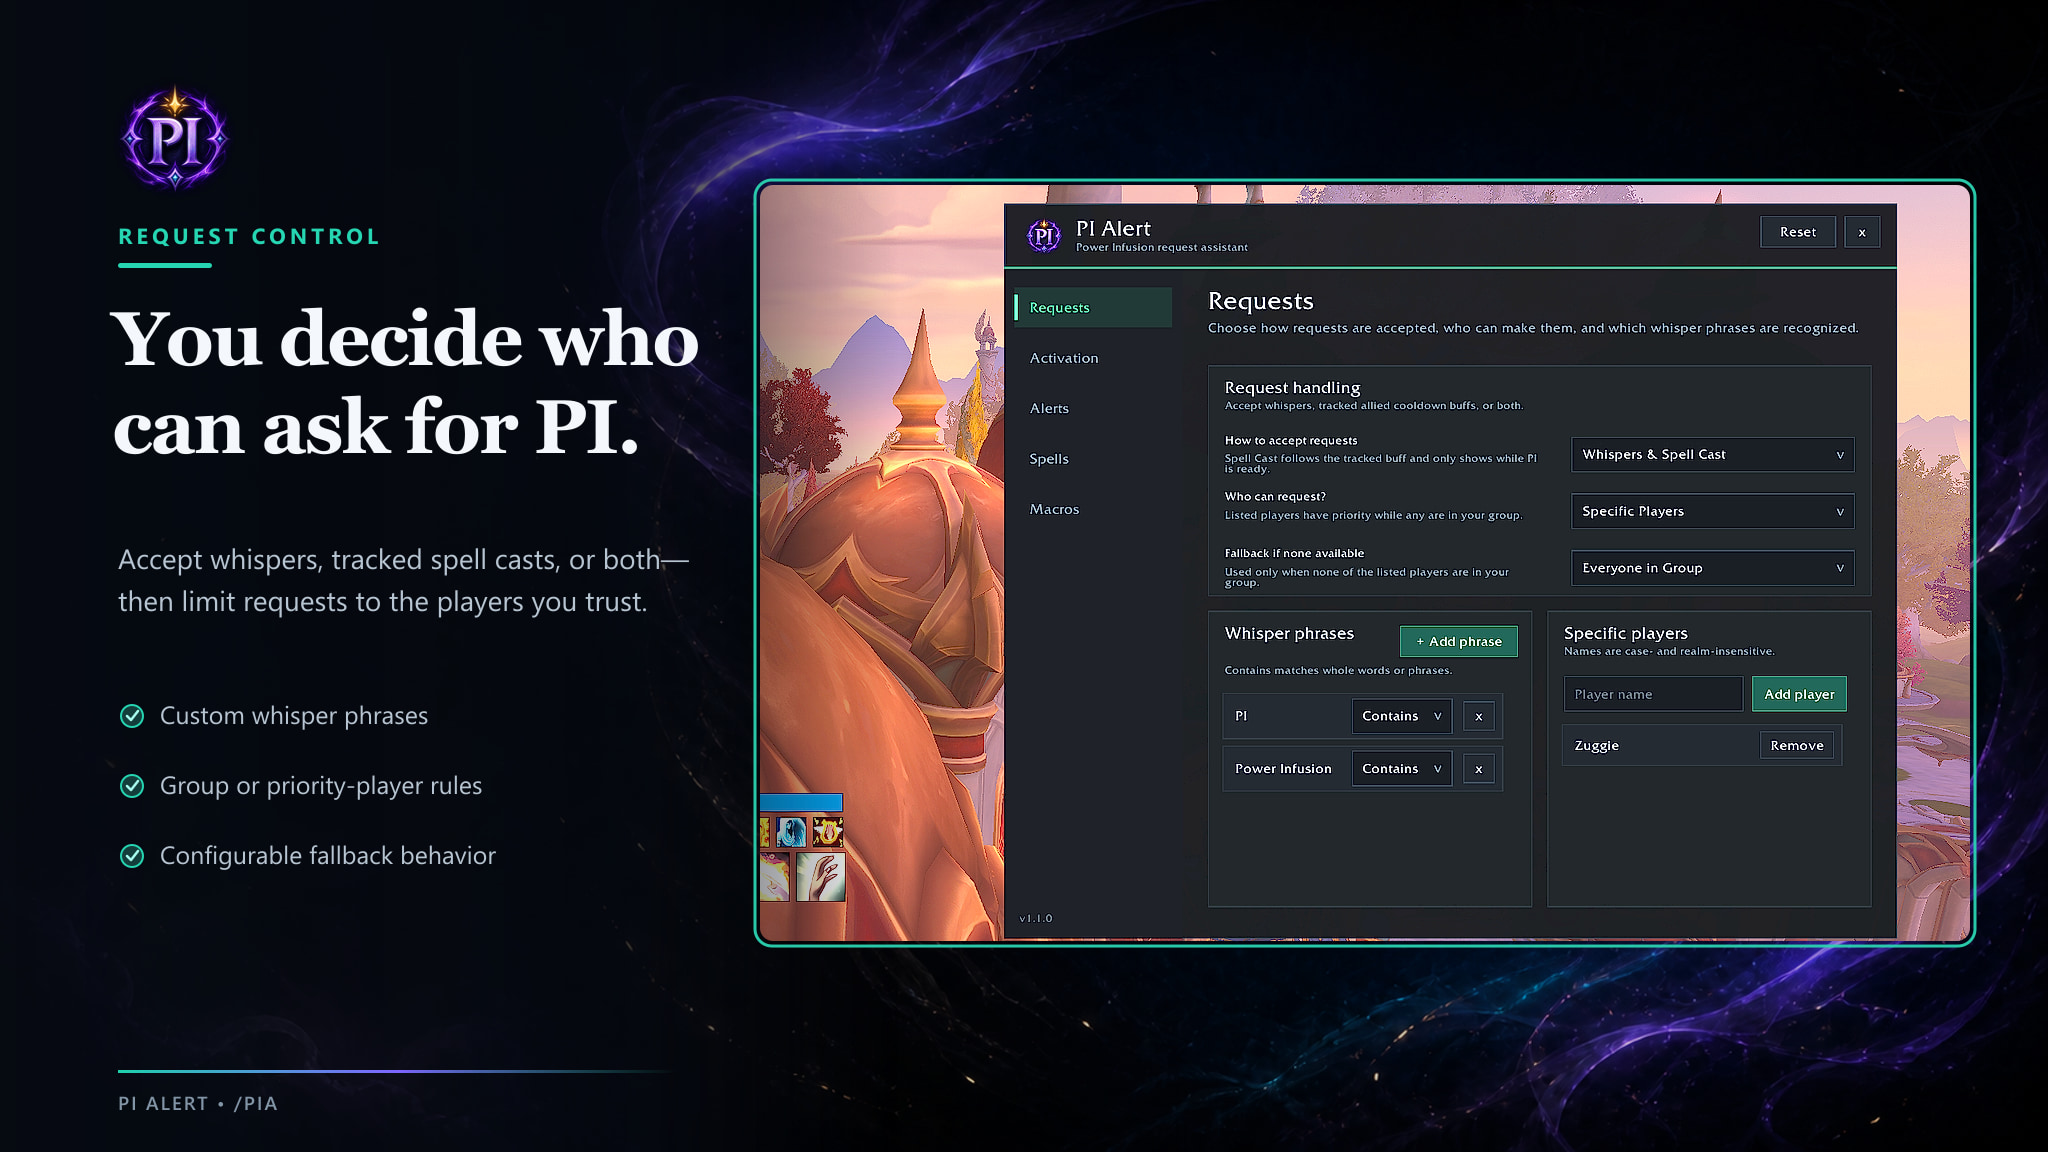
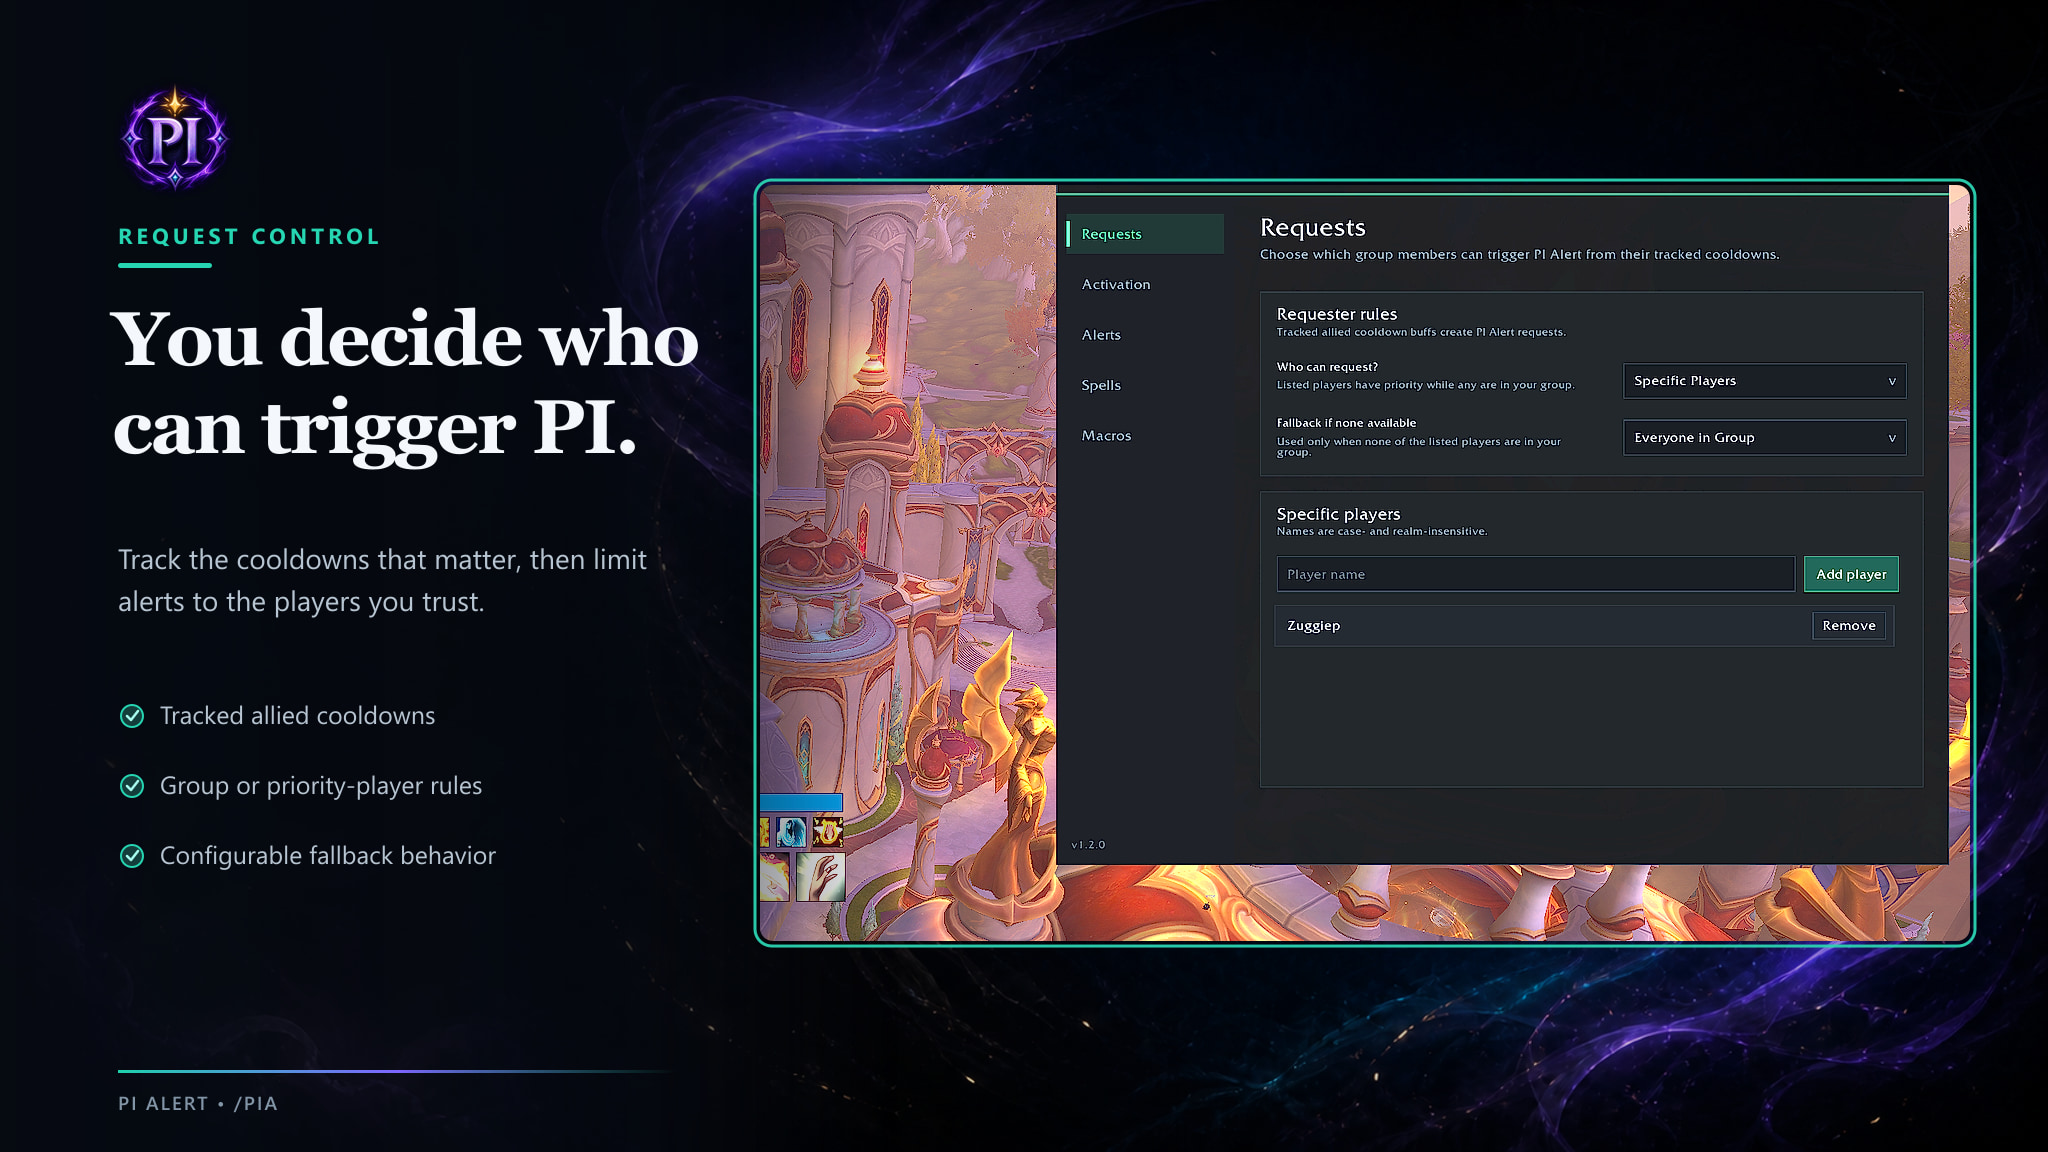
docs: refresh CurseForge gallery screenshots
Render updated Requests, Activation, Alerts, Spells, and Macros panels from the new in-game captures while preserving the established gallery layout.

Update the gallery builder source mapping and contributor guide to use the current screenshots.

Changed region(s): [[0.0625, 0.1562, 0.9688, 0.8438], [0.125, 0.3438, 0.3125, 0.4062], [0.0938, 0.5938, 0.2188, 0.625]]

diff --git a/Branding/CurseForge/build-gallery.js b/Branding/CurseForge/build-gallery.js
@@ -37,7 +37,7 @@ const slides = [
   },
   {
     output: "02-requests.jpg",
-    source: "WoWScrnShot_083126_111855.jpg",
+    source: "WoWScrnShot_083126_124002.jpg",
     crop: { left: 2659, top: 125, width: 1512, height: 945 },
     shot: { x: 760, y: 185, width: 1210, height: 756 },
     eyebrow: "REQUEST CONTROL",
@@ -50,7 +50,7 @@ const slides = [
   },
   {
     output: "03-activation.jpg",
-    source: "WoWScrnShot_083126_111857.jpg",
+    source: "WoWScrnShot_083126_124004.jpg",
     crop: { left: 2659, top: 125, width: 1512, height: 945 },
     shot: { x: 760, y: 185, width: 1210, height: 756 },
     eyebrow: "SMART ACTIVATION",
@@ -63,7 +63,7 @@ const slides = [
   },
   {
     output: "04-alerts.jpg",
-    source: "WoWScrnShot_083126_111859.jpg",
+    source: "WoWScrnShot_083126_124007.jpg",
     crop: { left: 2659, top: 125, width: 1512, height: 945 },
     shot: { x: 760, y: 185, width: 1210, height: 756 },
     eyebrow: "CUSTOM ALERTS",
@@ -76,7 +76,7 @@ const slides = [
   },
   {
     output: "05-spells.jpg",
-    source: "WoWScrnShot_083126_111901.jpg",
+    source: "WoWScrnShot_083126_124010.jpg",
     crop: { left: 2659, top: 125, width: 1512, height: 945 },
     shot: { x: 760, y: 185, width: 1210, height: 756 },
     eyebrow: "COOLDOWN TRACKING",
@@ -89,7 +89,7 @@ const slides = [
   },
   {
     output: "06-macros.jpg",
-    source: "WoWScrnShot_083126_111903.jpg",
+    source: "WoWScrnShot_083126_124012.jpg",
     crop: { left: 2659, top: 125, width: 1512, height: 945 },
     shot: { x: 760, y: 185, width: 1210, height: 756 },
     eyebrow: "BUILT-IN MACROS",

diff --git a/Branding/CurseForge/README.md b/Branding/CurseForge/README.md
@@ -17,11 +17,11 @@ Final 2048×1152 JPEGs are written to `Branding/CurseForge/gallery`.
 ## Source screenshots
 
 - `WoWScrnShot_082726_212445.jpg` — live combat PI alert
-- `WoWScrnShot_083126_111855.jpg` — Requests
-- `WoWScrnShot_083126_111857.jpg` — Activation
-- `WoWScrnShot_083126_111859.jpg` — Alerts
-- `WoWScrnShot_083126_111901.jpg` — Spells
-- `WoWScrnShot_083126_111903.jpg` — Macros
+- `WoWScrnShot_083126_124002.jpg` — Requests
+- `WoWScrnShot_083126_124004.jpg` — Activation
+- `WoWScrnShot_083126_124007.jpg` — Alerts
+- `WoWScrnShot_083126_124010.jpg` — Spells
+- `WoWScrnShot_083126_124012.jpg` — Macros
 - `WoWScrnShot_082726_214545.jpg` — right-click controls
 
 The 5120×1440 source screenshots remain in the World of Warcraft screenshot folder and are not committed to keep the repository lightweight.
